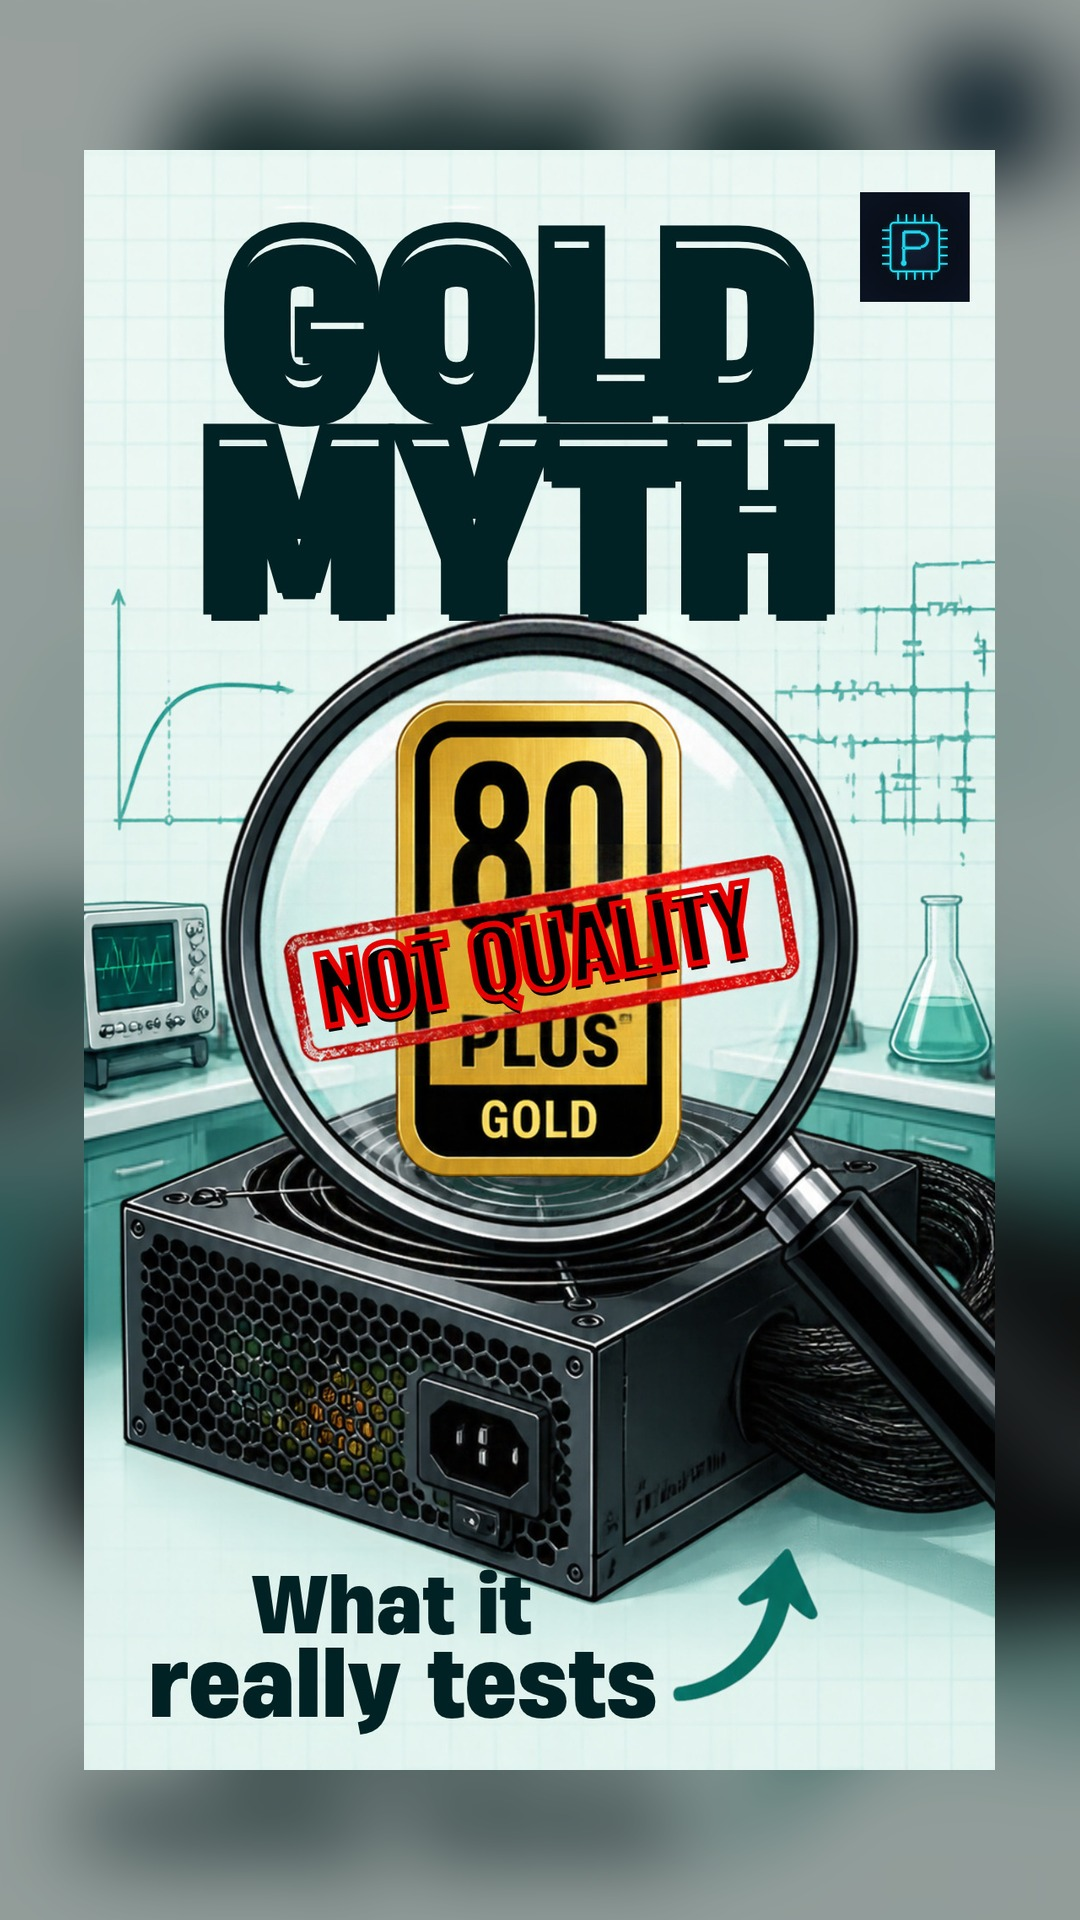
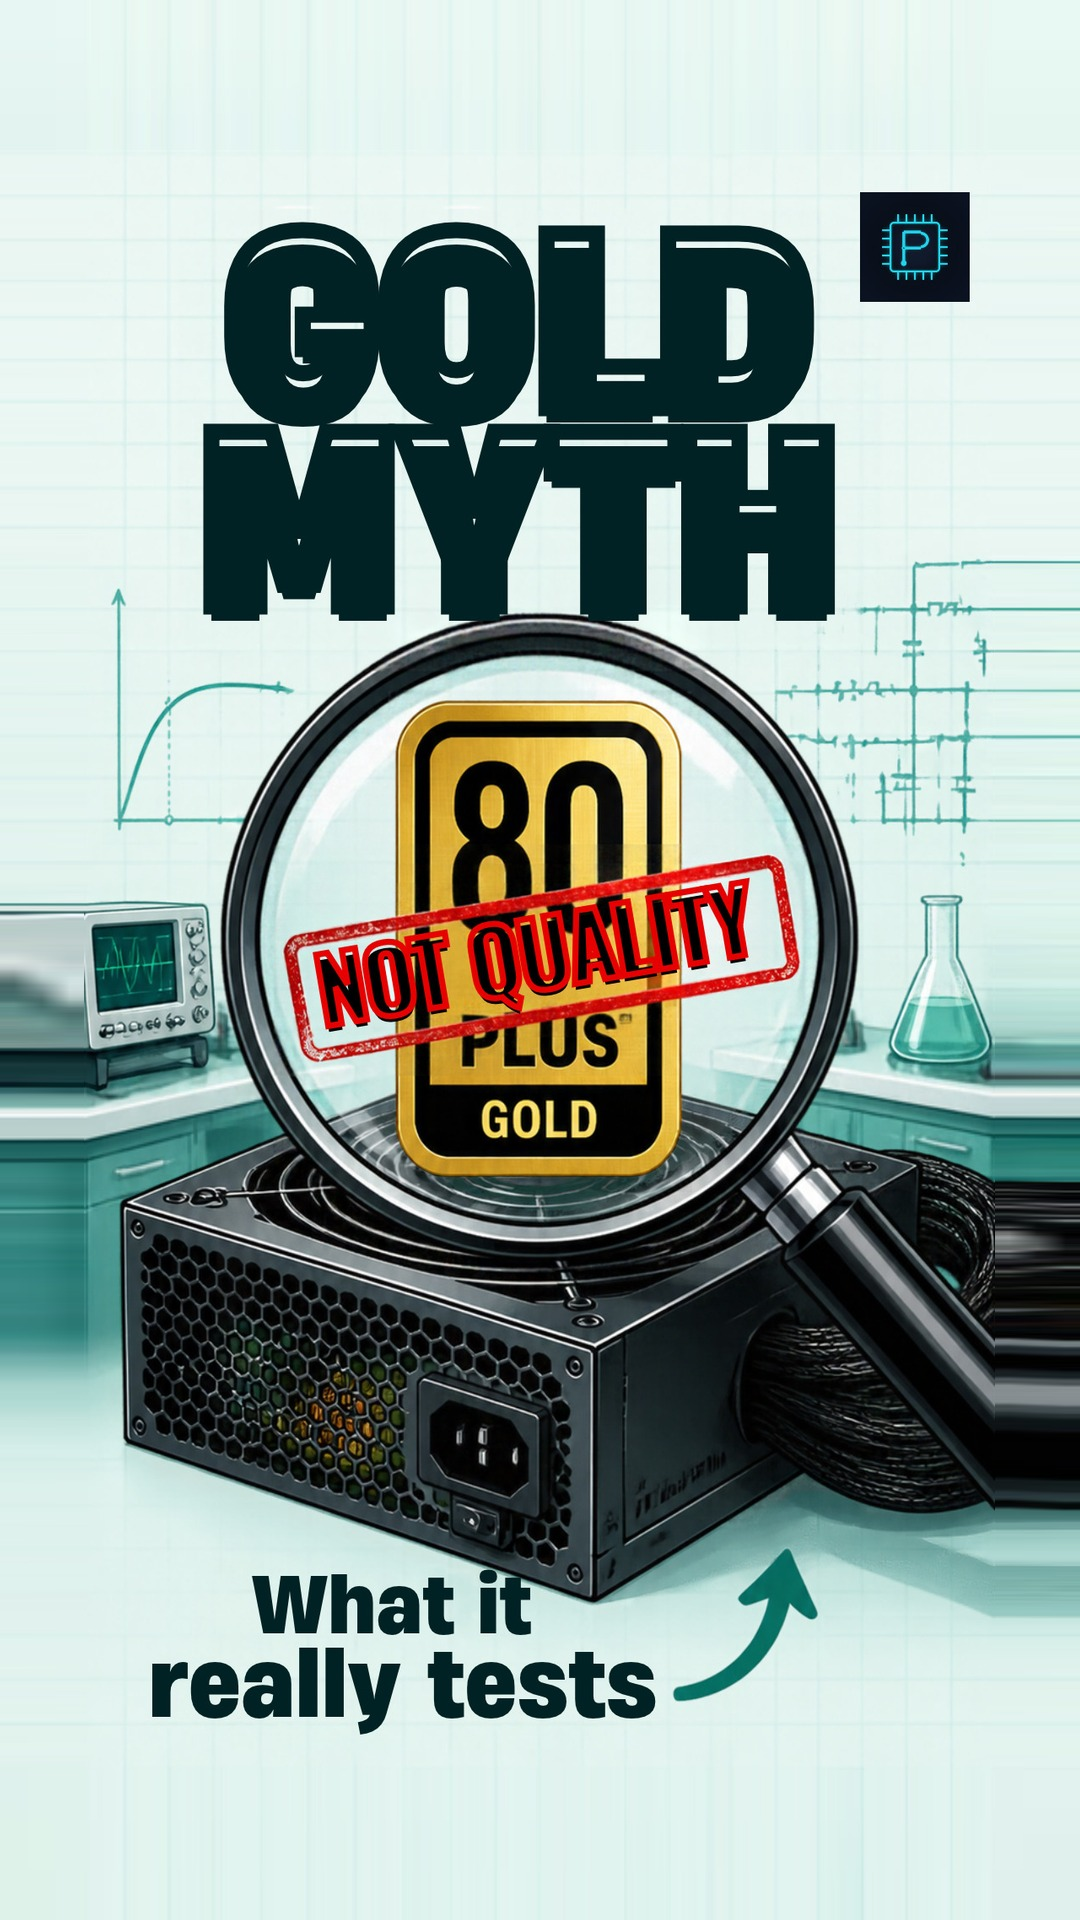
Shorts thumbnails: fill the sides by stretching the design's edge pixels (no blur bands); re-set 10s2 and 23s1
Claude-Session: https://claude.ai/code/session_0172qTtyiomsRLR27RQusAov

Changed region(s): [[0.0, 0.0, 1.0, 1.0]]

diff --git a/brand_thumb.py b/brand_thumb.py
@@ -12,17 +12,28 @@ HERE = os.path.dirname(os.path.abspath(__file__))
 
 
 def shorts_safe(im):
-    """YouTube crops Shorts thumbnails to about 2:3 (Studio grid, Shorts shelves), cutting ~8% off
-    the top and bottom of a 9:16 image. Fit the whole design inside the centre 2:3 area and fill
-    the rest of the 1080x1920 frame with a blurred copy, so nothing important is ever cropped."""
+    """YouTube crops Shorts thumbnails to about 2:3 (Studio grid, Shorts shelves): roughly the middle
+    1080x1620 of a 1080x1920 image. Fit the whole design into that area, then fill the strips beside
+    and above/below it by stretching the design's outermost pixels, so the background colour simply
+    continues to the frame edge (no blur, no mirrored copies)."""
     W, H = 1080, 1920
     safe_h = int(W * 3 / 2)                      # 1620: the part every surface shows
     s = safe_h / im.height
     fg = im.resize((int(im.width * s), safe_h), Image.LANCZOS)
-    bg = im.resize((W, H), Image.LANCZOS).filter(ImageFilter.GaussianBlur(40))
-    bg = Image.blend(bg, Image.new("RGB", (W, H), (0, 0, 0)), 0.35)
-    bg.paste(fg, ((W - fg.width) // 2, (H - safe_h) // 2))
-    return bg
+    x0, y0 = (W - fg.width) // 2, (H - safe_h) // 2
+    out = Image.new("RGB", (W, H))
+    out.paste(fg, (x0, y0))
+    # sides: stretch the design's outermost pixel columns outward (continues the background colour only)
+    if x0 > 0:
+        left = fg.crop((0, 0, 3, safe_h)).resize((x0, safe_h), Image.BILINEAR)
+        rw = W - x0 - fg.width
+        right = fg.crop((fg.width - 3, 0, fg.width, safe_h)).resize((rw, safe_h), Image.BILINEAR)
+        out.paste(left, (0, y0)); out.paste(right, (x0 + fg.width, y0))
+    # top and bottom (outside the shown area): stretch the outermost rows the same way
+    out.paste(out.crop((0, y0, W, y0 + 3)).resize((W, y0), Image.BILINEAR), (0, 0))
+    hb = H - y0 - safe_h
+    out.paste(out.crop((0, y0 + safe_h - 3, W, y0 + safe_h)).resize((W, hb), Image.BILINEAR), (0, y0 + safe_h))
+    return out
 
 
 def stamp(src, dst, logo_too=True):

diff --git a/AGENT.md b/AGENT.md
@@ -58,7 +58,7 @@ Why: on Nov 24, 2026 the channel had 48 videos, about 22,800 views and 33 subscr
 
 - **Titles under 55 characters.** Lead with the viewer's problem or a verdict, not the part name: "Slow PC? More RAM Probably Won't Fix It", not "What Is a Page File". Shorts: under 55 characters plus " #shorts". Planned titles in `calendar.json` are drafts: re-check them against the finished script.
 - **Thumbnails are made in Canva (owner, Nov 26, 2026), for every long video AND every Short.** Use the Canva connector: `create-design` with format "YouTube Thumbnail" (long videos) or a 9:16 format (Shorts) and a brief that gives: at most 3 words that don't repeat the title, one big part render, high contrast, the video's theme colors, the brand title font (Inter Black style), no real brand logos, readable on a phone. Poll `get-create-design-async-job`, then `export-design` as JPG 1280x720 (Shorts: 1080x1920) and download it (export-download.canva.com is allowed in this environment). Look at it before using it. Save the export as `videos/<slug>/thumbnail_canva.jpg`, then **always** run `python3 brand_thumb.py videos/<slug>/thumbnail_canva.jpg videos/<slug>/thumbnail.jpg`: it stamps the Plainly Silicon logo in the top-right corner (bottom-right is hidden by YouTube's duration badge), the same on every thumbnail. **Canva's AI credits are limited on the free plan and ran out on Nov 26, 2026.** If Canva says `quota_exceeded` (or isn't connected in your run), never buy credits: draw the thumbnail in code instead (`videos/<slug>/thumbnail.py` writing `thumbnail_raw.jpg`, same rules, brand title font; see `videos/10s2-80-plus-only-efficiency/thumbnail.py`), stamp it with `brand_thumb.py`, and say in the report that Canva was unavailable. `youtube_upload.py` sets `thumbnail.jpg` on long videos and Shorts alike.
-- **Shorts thumbnails are vertical: 1080x1920 (9:16), never 16:9** (owner, Nov 26, 2026). In Canva use a 9:16 format (e.g. "YouTube Shorts" / "Your Story") and export JPG 1080x1920; `brand_thumb.py` keeps vertical images 1080x1920. Long videos stay 1280x720. Before making one, look in the owner's Canva (`search-designs`, newest first) for a design titled like "Plainly Silicon Shorts cover" for that Short: the owner sometimes makes them, and theirs win. Their covers already carry the logo: run `brand_thumb.py IN OUT --no-logo` on them. **Always run Shorts thumbnails through `brand_thumb.py`:** YouTube shows Shorts thumbnails cropped to about 2:3 (Studio, Shorts shelves), cutting ~8% off the top and bottom of a 9:16 image, so the script fits the whole design into that centre 2:3 area and fills the rest with a blurred copy. Check it by cropping the result to its middle 1080x1620.
+- **Shorts thumbnails are vertical: 1080x1920 (9:16), never 16:9** (owner, Nov 26, 2026). In Canva use a 9:16 format (e.g. "YouTube Shorts" / "Your Story") and export JPG 1080x1920; `brand_thumb.py` keeps vertical images 1080x1920. Long videos stay 1280x720. Before making one, look in the owner's Canva (`search-designs`, newest first) for a design titled like "Plainly Silicon Shorts cover" for that Short: the owner sometimes makes them, and theirs win. Their covers already carry the logo: run `brand_thumb.py IN OUT --no-logo` on them. **Always run Shorts thumbnails through `brand_thumb.py`:** YouTube shows Shorts thumbnails cropped to about 2:3 (Studio, Shorts shelves), cutting ~8% off the top and bottom of a 9:16 image, so the script fits the whole design into that centre 2:3 area and fills the sides and top/bottom by stretching the design's outer pixels (background continues to the edge; no blur, no mirrored copies). Check it by cropping the result to its middle 1080x1620.
 - **The owner confirms long-video thumbnails the evening before.** A Friday 7:50 PM check-in in the owner's chat session shows Saturday's thumbnail and asks to confirm; nothing changes on YouTube until they answer. Upload long videos with your best Canva thumbnail; the check-in replaces it if the owner asks.
 - **Thumbnail content (long videos and Shorts):** at most 3 words, one big part render, high contrast, and the words must not repeat the title.
 
